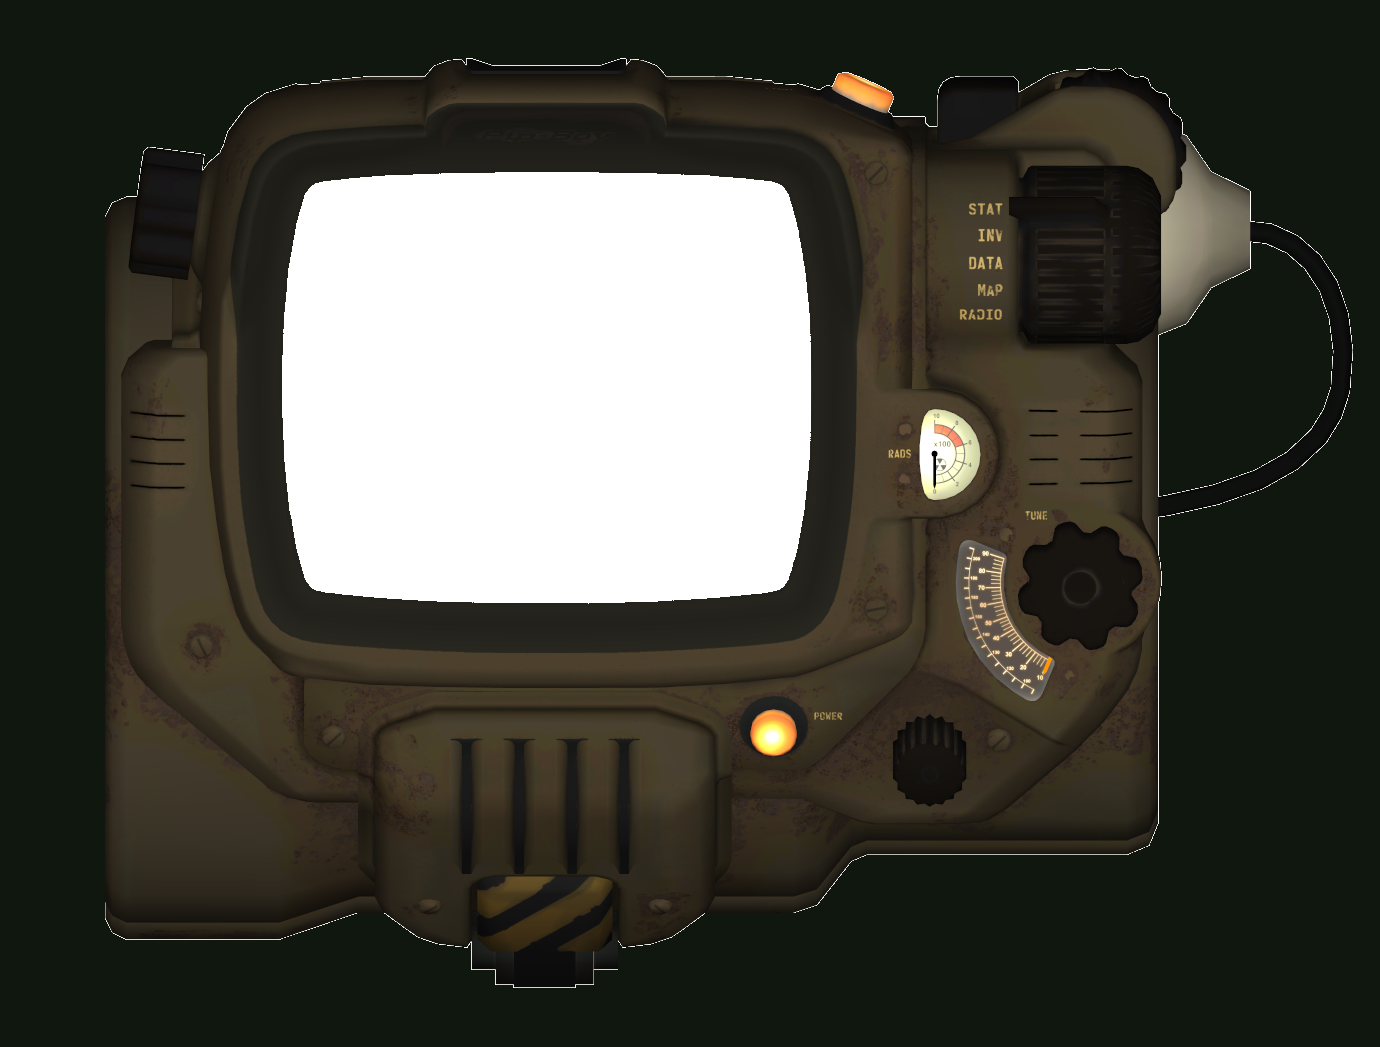
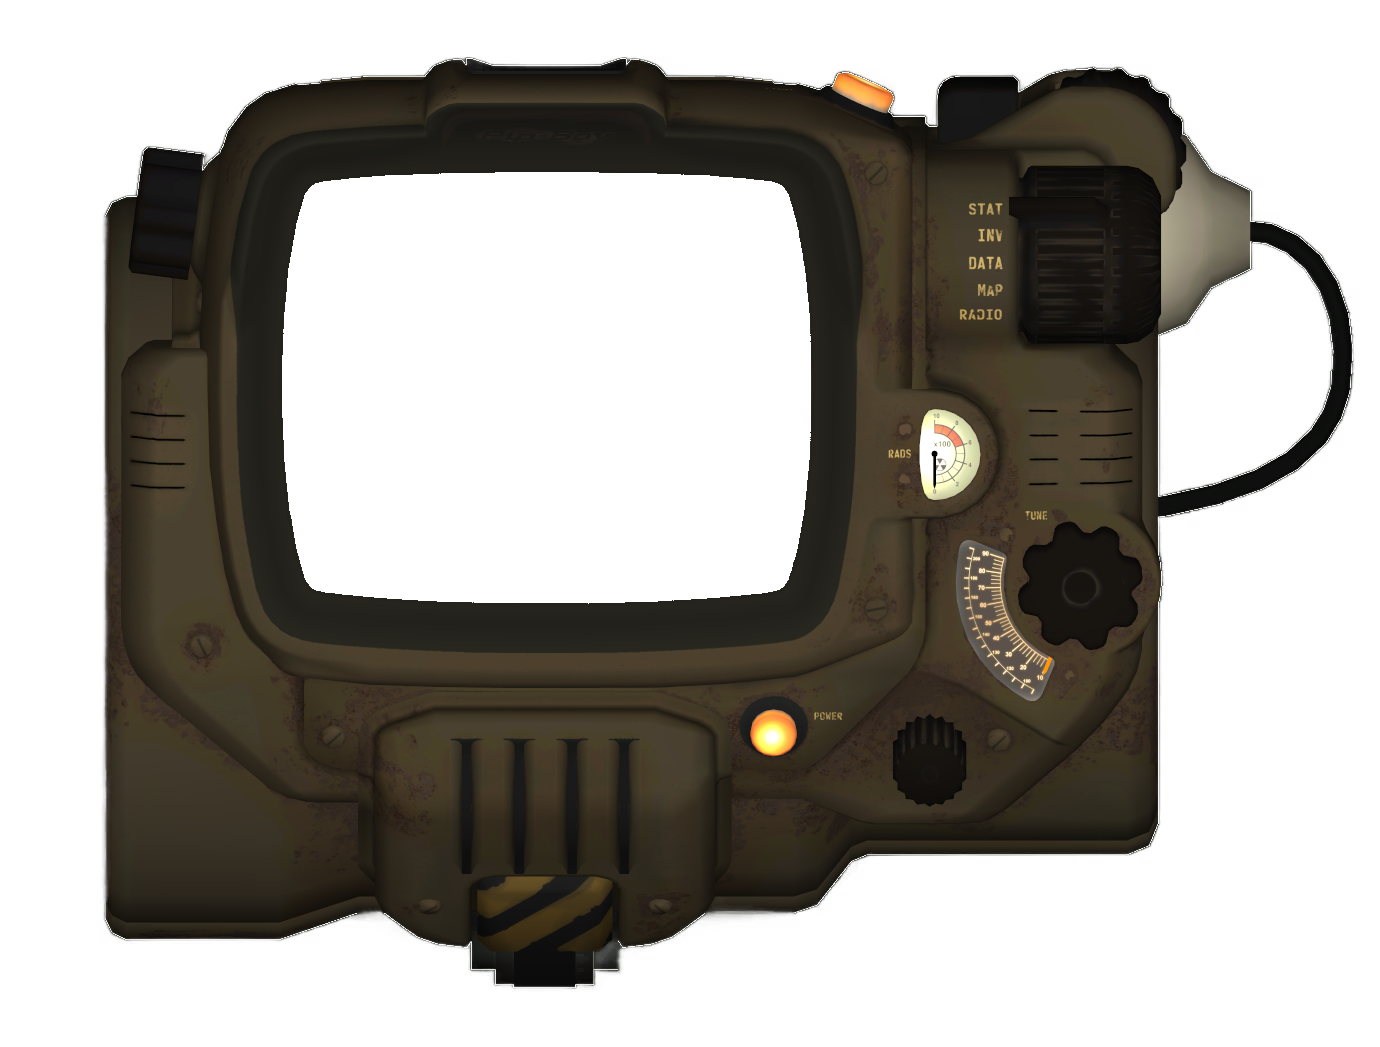
add vaultboy

diff --git a/app/layout.tsx b/app/layout.tsx
@@ -24,18 +24,18 @@ export default function RootLayout({
   return (
     <html lang="en">
       <body className={firaMono.className}>
-        <div className="flex min-h-screen justify-center bg-[#10170f]">
+        <div className="flex min-h-screen justify-center overflow-hidden bg-black">
           <div className="relative mt-20 h-[777px] w-full max-w-5xl xl:h-[900px] xl:max-w-6xl">
             <Image
               src="/images/pipboy/PipBoyOverlay.png"
               alt="PipBoy overlay"
               layout="fill"
               objectFit="cover"
-              className="pointer-events-none z-50 object-[-220px] lg:object-[100px]"
+              className="pointer-events-none z-50 object-[-220px] lg:object-[105px]"
             />
           </div>
 
-          <div className="text-primary pipboy-screen absolute left-0 top-[125px] z-10 mr-3 mt-16 flex h-[350px] w-[395px] flex-col overflow-hidden lg:left-auto xl:top-[150px] xl:h-[400px] xl:w-[500px]">
+          <div className="text-primary pipboy-screen absolute left-0 top-[125px] z-10 mt-16 flex h-[350px] w-full flex-col overflow-hidden min-[380px]:w-[395px] lg:left-auto xl:top-[150px] xl:h-[400px] xl:w-[500px]">
             <NavMenu />
             <div className="text-primary relative h-full">{children}</div>
             <Image
@@ -48,7 +48,7 @@ export default function RootLayout({
               src="/images/pipboy/PipBoyScreenDirt.png"
               alt="PipBoy cracked screen"
               layout="fill"
-              className="pointer-events-none opacity-80"
+              className="pointer-events-none opacity-100"
             />
             <Image
               src="/images/pipboy/PipBoyScreenFingerprint.png"

diff --git a/app/stat/status/page.tsx b/app/stat/status/page.tsx
@@ -1,7 +1,31 @@
+import Image from "next/image";
+
 export default function StatusPage() {
   return (
-    <div className="h-full text-xs">
-      <div className="absolute bottom-0 left-0 h-16 w-full px-8">bottom</div>
+    <div className="item-center relative flex h-full justify-center text-xs">
+      <Image
+        src="/images/Vaultboy_01.gif"
+        alt="Vaultboy"
+        width={105}
+        height={146}
+        className="absolute inset-0 left-1/2 top-5 -translate-x-1/2 transform"
+      />
+      <div className="absolute bottom-12 left-0 w-full">
+        <div className="mb-1 flex items-center justify-center">
+          Florian SERAN
+        </div>
+        <div className="flex items-center space-x-1 px-8">
+          <div className="bg-secondary px-1">HP 90/90</div>
+          <div className="item-center bg-secondary flex flex-1 items-center space-x-2 px-1">
+            <span className="">LEVEL 30</span>
+            <div className="relative h-2 flex-1">
+              <span className="border-primary absolute inset-0 h-full w-full border-[1px]" />
+              <span className="bg-primary absolute inset-0 h-2 w-1/3" />
+            </div>
+          </div>
+          <div className="bg-secondary px-1">AP 70/70</div>
+        </div>
+      </div>
     </div>
   );
 }

diff --git a/app/globals.css b/app/globals.css
@@ -4,8 +4,8 @@
 
 :root {
   --primary: #18dc0c;
-  --secondary: #222222;
-  --background: #002b00;
+  --secondary: #255024;
+  --background: #1e281b;
 }
 
 @layer utilities {
@@ -29,19 +29,19 @@
   }
 
 
-  /*.pipboy-screen::after {*/
-  /*  background-image: linear-gradient(transparent, transparent 3px, #222);*/
-  /*  background-size: 4px 4px;*/
-  /*  opacity: .4;*/
-  /*  left: 0;*/
-  /*  top: 0;*/
-  /*  bottom: 0;*/
-  /*  right: 0;*/
-  /*  content: "";*/
-  /*  pointer-events: none;*/
-  /*  position: absolute;*/
-  /*  z-index: 2;*/
-  /*}*/
+  .pipboy-screen::after {
+    background-image: linear-gradient(transparent, transparent 3px, #222);
+    background-size: 4px 4px;
+    opacity: .35;
+    left: 0;
+    top: 0;
+    bottom: 0;
+    right: 0;
+    content: "";
+    pointer-events: none;
+    position: absolute;
+    z-index: 2;
+  }
 
   .pipboy-screen-shadow {
     position: absolute;
@@ -106,9 +106,3 @@
     filter: grayscale(100%) brightness(40%) sepia(100%) hue-rotate(50deg) saturate(1000%) contrast(0.8);
   }
 }
-
-/*@screen lg {*/
-/*  .pipboy-screen-shadow {*/
-/*    box-shadow: 0 -30px 68px 20px #000 inset;*/
-/*  }*/
-/*}*/
